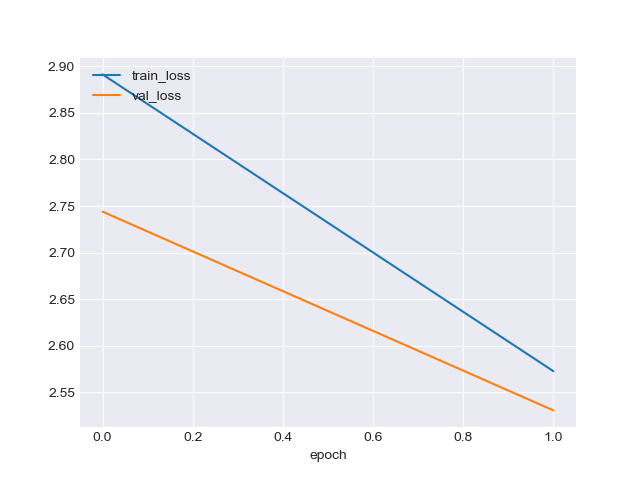
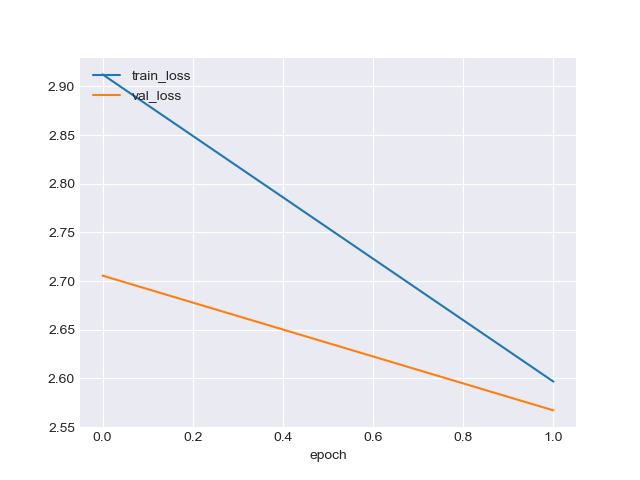
add exp argument

diff --git a/s2s_tutorial/run_train_val.py b/s2s_tutorial/run_train_val.py
@@ -25,19 +25,24 @@ from torch.utils.data import DataLoader
 from funcs.recorder import EpochRecorder
 from torch.optim import lr_scheduler
 from torch import optim
-from s2s_config import cfg
+from exp_config import experiments
 
 
 def args_parse():
     parser = argparse.ArgumentParser()
-    parser.add_argument('--load_model', action="store_true", help='Epoch size', default=False)
+    parser.add_argument('--e', help='the name of the experiment', type=str, required=False,
+                        choices=list(experiments.keys()))
     args = parser.parse_args()
     return args
 
 
 def main():
-    # TODO, add parsing
+    # load experiment
     args = args_parse()
+    if args.e is not None:
+        cfg = experiments[args.e]
+    else:
+        from s2s_config import cfg
     #
 
     # load model
@@ -51,19 +56,20 @@ def main():
     # Split train / val, TODO
     csv_path = cfg.train_seq_csv_path
     df = pd.read_csv(csv_path)
-    mask = df['source'].apply(lambda x: len(x.split(','))) <= cfg.seq_max_len  # filter by length
+    tmp_df = df['source'].apply(lambda x: len(x.split(',')))
+    mask = (tmp_df <= cfg.seq_max_len) & (tmp_df >= cfg.seq_min_len)  # TODO, filter by length
     df = df[mask]
 
     X = df['source'].values
     Y = df['target'].values
     uids = df['uid'].values
 
-    random.seed(1)  # TODO, add shuffle
-    torch.manual_seed(1)
+    random.seed(cfg.randseed)  # TODO, add shuffle
+    torch.manual_seed(cfg.randseed)
     shuffled_X_Y_uids = list(zip(X, Y, uids))
     random.shuffle(shuffled_X_Y_uids)
     X, Y, uids = zip(*shuffled_X_Y_uids)
-    val_percent = 0.2
+    val_percent = cfg.val_percent
     val_index = int(val_percent * len(X))
     train_X, train_Y, train_uids = X[val_index:], Y[val_index:], uids[val_index:]
     val_X, val_Y, val_uids = X[:val_index], Y[:val_index], uids[:val_index]

diff --git a/s2s_tutorial/s2s_config.py b/s2s_tutorial/s2s_config.py
@@ -11,6 +11,7 @@ cfg = edict()
 cfg.name = 'untitled'  # name for the experiment
 
 # other config
+cfg.randseed = 1
 cfg.verbose = False
 cfg.load_model = False
 cfg.model_type = 'basic_rnn'  # basic_rnn, basic_attn
@@ -26,7 +27,9 @@ cfg.exp_dir = os.path.join(cfg.results_dir, cfg.name)
 
 # data-set config
 data_set = 's2s_toy_data_copy'
+cfg.seq_min_len = 1  # filter the src samples longer than max_len
 cfg.seq_max_len = 5  # filter the src samples longer than max_len
+cfg.val_percent = 0.2
 data_dir = '../data'
 train_x_dir = os.path.join(data_dir, data_set, 'train')
 cfg.train_seq_csv_path = os.path.join(data_dir, data_set, 'train.csv')

diff --git a/s2s_tutorial/exp_config.py b/s2s_tutorial/exp_config.py
@@ -1,0 +1,15 @@
+from s2s_config import cfg
+import copy
+import os
+
+# ------------------------------------------------------
+# set experiment 1
+# ------------------------------------------------------
+exp1 = copy.copy(cfg)
+exp1.name = 'exp1'
+exp1.data_set = 's2s_toy_data_reverse'
+exp1.exp_dir = os.path.join(exp1.results_dir, exp1.name)
+# ------------------------------------------------------
+
+
+experiments = {'exp1': exp1}
